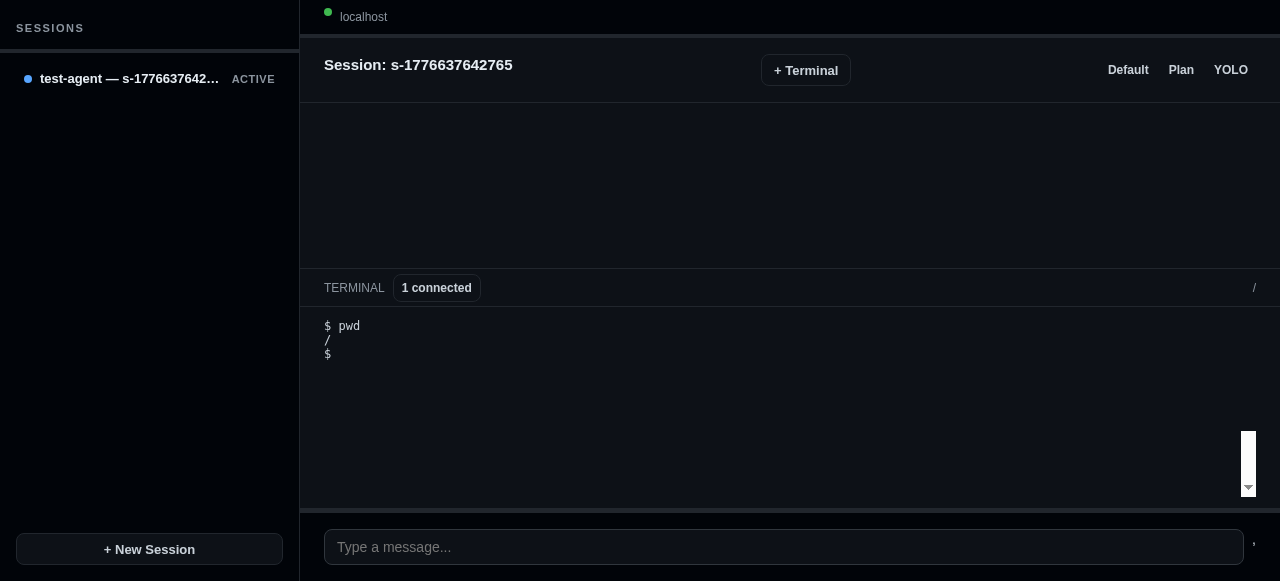
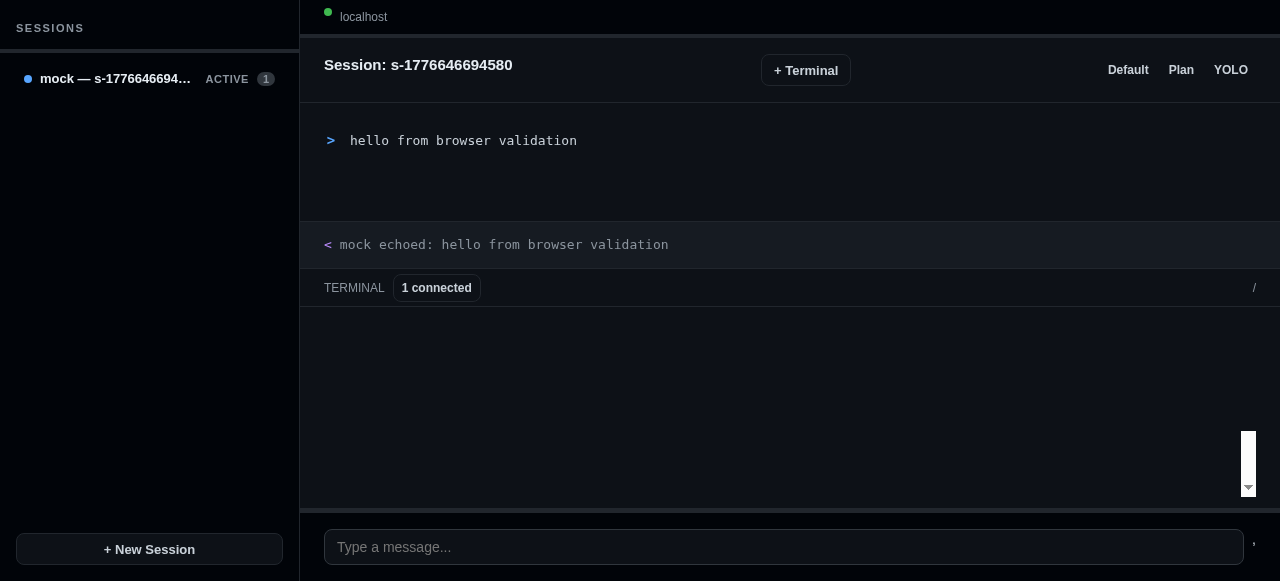
Use real sandbox-agent in puddy e2e

diff --git a/examples/puddy-vite/e2e/puddy.spec.ts b/examples/puddy-vite/e2e/puddy.spec.ts
@@ -48,7 +48,7 @@ async function startBackendSession(page: Page) {
   await gotoApp(page);
   await expect(page.getByTestId("new-session")).toBeEnabled();
   await page.getByTestId("new-session").click();
-  const sessionRow = page.locator(".session-row").filter({ hasText: "test-agent" }).last();
+  const sessionRow = page.locator(".session-row").filter({ hasText: "mock" }).last();
   await expect(sessionRow).toBeVisible();
   await sessionRow.click();
   await expect(page.getByTestId("detail-title")).toContainText("Session:");
@@ -336,7 +336,7 @@ test.describe("Sandbox-agent server integration", () => {
     await input.press("Enter");
 
     await expect(page.getByText("hello from e2e")).toBeVisible();
-    await expect(page.getByText("sandbox-agent heard: hello from e2e")).toBeVisible();
+    await expect(page.getByText("mock echoed: hello from e2e")).toBeVisible();
     await expect(input).toHaveValue("");
   });
 
@@ -351,7 +351,6 @@ test.describe("Sandbox-agent server integration", () => {
     await expect(page.getByTestId("terminal-tabs")).toContainText("connected");
 
     const terminal = page.getByTestId("terminal-output");
-    await expect(terminal).toContainText("$");
     await terminal.click();
     await page.keyboard.type("pwd");
     await page.keyboard.press("Enter");

diff --git a/examples/puddy-vite/src/models/events.test.ts b/examples/puddy-vite/src/models/events.test.ts
@@ -158,6 +158,34 @@ describe("parseACPMessage", () => {
     expect(result.type).toBe("skip");
   });
 
+  it("parses sandbox-agent mock echo prompts", () => {
+    const idx = { value: 0 };
+    const result = parseACPMessage(
+      JSON.stringify({
+        jsonrpc: "2.0",
+        method: "mock/echo",
+        params: {
+          message: {
+            jsonrpc: "2.0",
+            id: 2,
+            method: "session/prompt",
+            params: {
+              prompt: [{ type: "text", text: "hello from e2e" }],
+            },
+          },
+        },
+      }),
+      idx,
+    );
+
+    expect(result.type).toBe("event");
+    if (result.type !== "event") return;
+    expect(result.event.payload.type).toBe("agentMessageChunk");
+    if (result.event.payload.type !== "agentMessageChunk") return;
+    expect(result.event.payload.text).toBe("mock echoed: hello from e2e");
+    expect(idx.value).toBe(1);
+  });
+
   it("skips JSON-RPC error", () => {
     const idx = { value: 0 };
     const result = parseACPMessage(

diff --git a/examples/puddy-vite/src/models/events.ts b/examples/puddy-vite/src/models/events.ts
@@ -100,6 +100,30 @@ export function parseACPMessage(
     return { type: "skip" };
   }
 
+  // The built-in sandbox-agent mock agent echoes prompts as mock/echo notifications.
+  if (json.method === "mock/echo") {
+    const echoed = json.params?.message;
+    if (echoed?.method !== "session/prompt") return { type: "skip" };
+    const prompt = echoed.params?.prompt;
+    const text = Array.isArray(prompt)
+      ? prompt
+          .filter((part: any) => part?.type === "text" && typeof part.text === "string")
+          .map((part: any) => part.text)
+          .join("\n")
+      : "";
+    if (!text) return { type: "skip" };
+
+    eventIndex.value += 1;
+    return {
+      type: "event",
+      event: {
+        id: `evt-${_nextEventId++}`,
+        eventIndex: eventIndex.value,
+        payload: { type: "agentMessageChunk", text: `mock echoed: ${text}` },
+      },
+    };
+  }
+
   // JSON-RPC notification — must be session/update
   if (
     json.method !== "session/update" ||

diff --git a/examples/puddy-vite/src/networking/session-manager.ts b/examples/puddy-vite/src/networking/session-manager.ts
@@ -415,7 +415,15 @@ export class SessionManager {
   }
 
   private decodeTerminalData(data: MessageEvent["data"]): string {
-    if (typeof data === "string") return data;
+    if (typeof data === "string") {
+      try {
+        const frame = JSON.parse(data);
+        if (frame && typeof frame.type === "string") return "";
+      } catch {
+        // Plain text frames are terminal output.
+      }
+      return data;
+    }
     if (data instanceof ArrayBuffer) return new TextDecoder().decode(data);
     if (ArrayBuffer.isView(data)) {
       return new TextDecoder().decode(data);

diff --git a/examples/puddy-vite/playwright.config.ts b/examples/puddy-vite/playwright.config.ts
@@ -14,7 +14,10 @@ export default defineConfig({
   },
   webServer: [
     {
-      command: `SANDBOX_AGENT_TEST_PORT=${sandboxAgentPort} corepack pnpm exec tsx e2e/sandbox-agent-server.ts`,
+      command: [
+        "corepack pnpm exec sandbox-agent install-agent mock --no-token",
+        `corepack pnpm exec sandbox-agent server --no-token --no-telemetry --host 127.0.0.1 --port ${sandboxAgentPort}`,
+      ].join(" && "),
       url: `${sandboxAgentURL}/v1/health`,
       reuseExistingServer: false,
     },

diff --git a/examples/puddy-vite/README.md b/examples/puddy-vite/README.md
@@ -6,6 +6,15 @@ Web-based prototype of the Puddy chat app, built on a simplified Jam fact databa
 
 ```bash
 corepack pnpm install
+corepack pnpm --dir examples/puddy-vite exec sandbox-agent install-agent mock --no-token
+```
+
+The Playwright e2e config installs the built-in `mock` agent and starts a real
+local sandbox-agent server automatically. For manual development, run the same
+server the app proxies to:
+
+```bash
+corepack pnpm --dir examples/puddy-vite exec sandbox-agent server --no-token --no-telemetry --host 127.0.0.1 --port 2468
 ```
 
 ## Development
